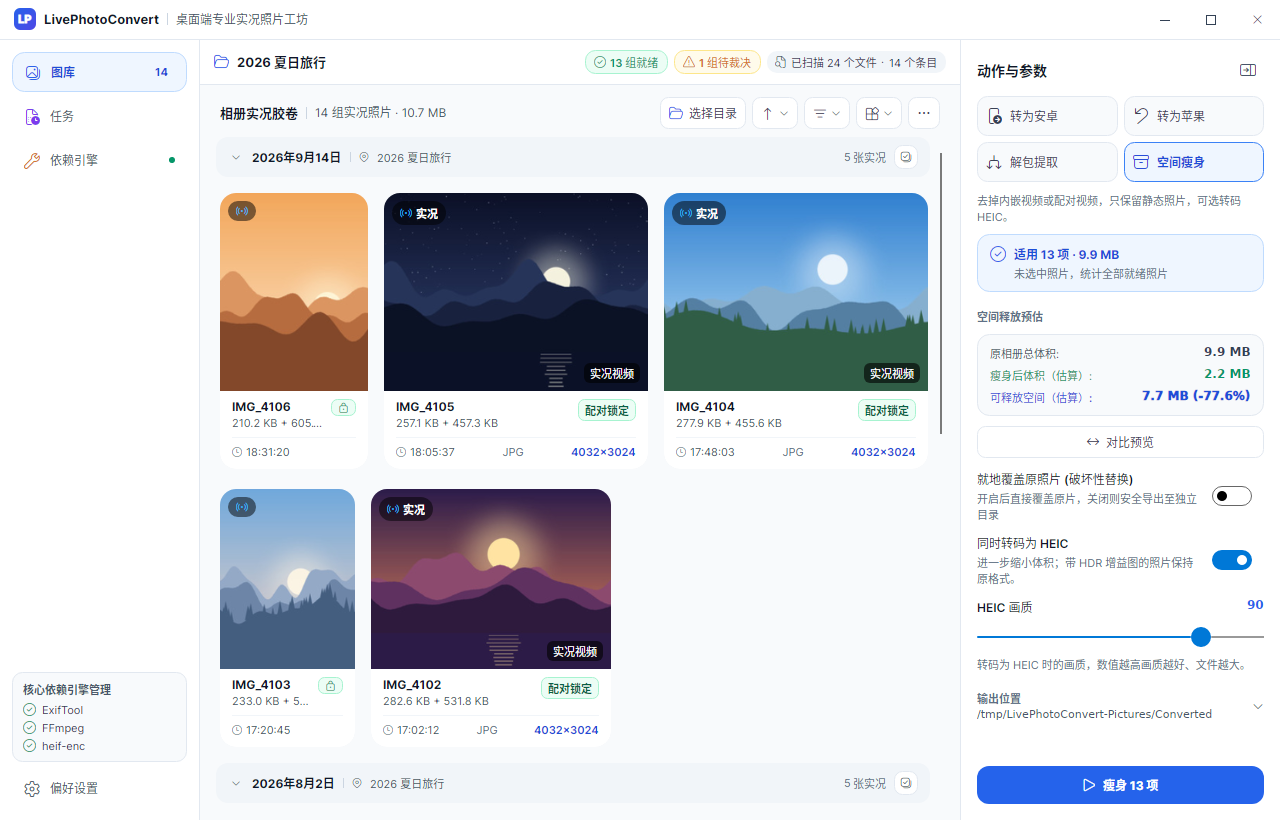
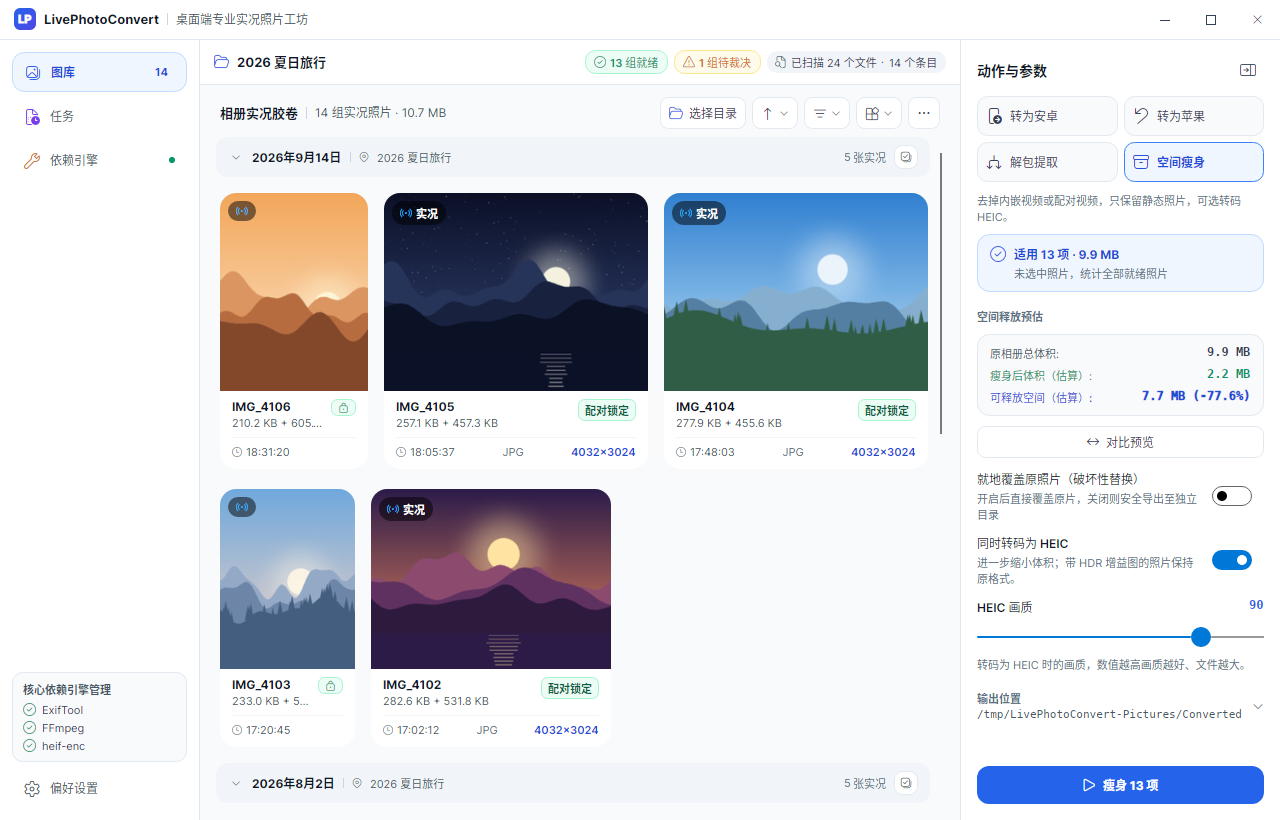
README 补充使用场景与按搜索习惯写的常见问题，更新截图并加入社交预览图
- 中英文 README 开头说明解决的问题：iPhone 实况照片到安卓不会动、安卓换 iPhone、提取视频、实况照片占空间
- 常见问题新增四条：实况转安卓动态照片、动态照片转 iPhone 实况、提取视频、节省空间
- 首屏截图的 alt 文字写明用途
- 按当前界面重新生成 README 截图（去掉已移除的「实况视频」角标）
- 新增 docs/social-preview.png（1280×640），供仓库设置中的 Social preview 使用

diff --git a/docs/README.en.md b/docs/README.en.md
@@ -22,8 +22,17 @@
 </p>
 
 <p align="center">
-  <img src="screenshots/library-light-en.png" alt="Library workbench" width="880" />
+  <img src="screenshots/library-light-en.png" alt="LivePhotoConvert library: browse and convert iPhone Live Photos and Android motion photos" width="880" />
 </p>
+
+LivePhotoConvert is a Windows desktop app for the "moving photos" on your phone: Apple Live Photos and Android Motion Photos.
+
+- **iPhone Live Photos don't move on Android**: merge each Live Photo (`.HEIC` / `.JPG` + `.MOV`) into a single-file motion photo (`MVIMG_*.jpg`) that plays on long-press in Google Photos and Xiaomi / HyperOS Gallery. iPhone HDR photos can stay HDR as Ultra HDR.
+- **Switching from Android to iPhone**: turn Google, Xiaomi, Samsung and other Android motion photos back into `.HEIC` + `.MOV` Live Photo pairs that Photos on iPhone and Mac recognizes as Live Photos.
+- **Just want the video**: extract the embedded `.mp4` from a motion photo, byte-for-byte and lossless.
+- **Live Photos take too much space**: drop the video and keep only the photo, optionally as HEIC. Compare the quality and see the estimated savings before you start.
+
+Whole albums are processed in batches, outputs are verified before they are written, and your originals are kept by default.
 
 ## Contents
 
@@ -190,6 +199,30 @@ On macOS keyboards the Command key acts as Ctrl.
 | Android / iOS | Not supported: conversions depend on launching command-line tools such as ExifTool and FFmpeg as local processes |
 
 ## FAQ
+
+<details>
+<summary><b>How do I convert iPhone Live Photos into motion photos that play on Android?</b></summary>
+
+Export the unmodified originals from your iPhone (each Live Photo is a photo plus a `.MOV` with the same name), open the folder in the library, choose "To Android" and start. Each result is a single `MVIMG_*.jpg`; copy it to the phone over USB, the local network or an original-quality cloud upload, then long-press it in Google Photos or Xiaomi / HyperOS Gallery. See [Getting started](#getting-started).
+</details>
+
+<details>
+<summary><b>How do I turn Android motion photos into iPhone Live Photos?</b></summary>
+
+Open the folder and choose "To Apple". Each motion photo becomes a `.HEIC` and a `.MOV` with the same name and the same pairing identifier; import both files together into Photos on iPhone or Mac and they show up as a Live Photo. Google, Xiaomi and Samsung motion photos and HEIC files with an embedded video are all recognized.
+</details>
+
+<details>
+<summary><b>How do I extract the video from a motion photo?</b></summary>
+
+Choose "Extract". Each motion photo yields its cover image and a standalone `.mp4`, cut byte-for-byte without re-encoding. The video of an Apple Live Photo is already a separate `.MOV` file.
+</details>
+
+<details>
+<summary><b>Live Photos and motion photos take too much space</b></summary>
+
+Choose "Slim down" to remove the embedded or paired video and keep only the photo, optionally re-encoded as HEIC (quality 90 by default). Before you start, "Compare preview" shows the resulting quality and the album-wide estimate shows how much space you will save. Results are exported to a new folder by default, or you can replace the originals in place.
+</details>
 
 <details>
 <summary><b>Engine downloads fail</b></summary>

diff --git a/README.md b/README.md
@@ -22,8 +22,17 @@
 </p>
 
 <p align="center">
-  <img src="docs/screenshots/library-light-zh.png" alt="图库工作台" width="880" />
+  <img src="docs/screenshots/library-light-zh.png" alt="LivePhotoConvert 图库：浏览并转换 iPhone 实况照片与安卓动态照片" width="880" />
 </p>
+
+LivePhotoConvert 是一个 Windows 桌面工具，专门处理手机里「会动的照片」——苹果的实况照片（Live Photo）和安卓的动态照片（Motion Photo）：
+
+- **iPhone 实况照片发到安卓手机不会动**：把实况照片（`.HEIC` / `.JPG` + `.MOV`）合成为单文件动态照片（`MVIMG_*.jpg`），在 Google 相册、小米 / 澎湃 OS 相册中长按即可播放；iPhone 的 HDR 照片可保留为 Ultra HDR。
+- **从安卓换到 iPhone，动态照片想继续当实况看**：把 Google、小米、三星等安卓动态照片还原为 `.HEIC` + `.MOV` 实况对，导入 iPhone / Mac「照片」后就是实况照片。
+- **只想要里面的视频**：从动态照片中按字节无损提取 `.mp4`。
+- **实况照片太占空间**：去掉实况视频只保留照片，可同时转为 HEIC；处理前可先对比画质、预估能省多少空间。
+
+整个相册批量处理，输出校验通过后才落盘，默认保留原片。
 
 ## 目录
 
@@ -190,6 +199,30 @@ macOS 键盘上的 Command 键按 Ctrl 处理。
 | Android / iOS | 不支持：转换依赖在本机启动 ExifTool、FFmpeg 等命令行工具进程 |
 
 ## 常见问题
+
+<details>
+<summary><b>iPhone 实况照片怎么转成安卓 / 小米手机能播放的动态照片？</b></summary>
+
+先从 iPhone 导出未修改的原片（每张实况是同名的照片与 `.MOV`），在图库中打开所在文件夹，选择「转为安卓」并开始。生成的 `MVIMG_*.jpg` 是单个文件，用数据线、局域网或网盘原图传到手机，在 Google 相册、小米 / 澎湃 OS 相册中长按播放。详见[快速上手](#快速上手)。
+</details>
+
+<details>
+<summary><b>安卓动态照片怎么变成 iPhone 的实况照片？</b></summary>
+
+打开动态照片所在文件夹，选择「转为苹果」。每张动态照片会生成同名的 `.HEIC` 与 `.MOV`，两端写入相同的配对标识；把两个文件一起导入 iPhone 或 Mac 的「照片」，即识别为实况照片。Google、小米、三星的动态照片和内嵌视频的 HEIC 都能识别。
+</details>
+
+<details>
+<summary><b>怎么从动态照片里提取视频？</b></summary>
+
+选择「解包提取」，每张动态照片输出封面图与独立的 `.mp4`，视频按字节切出，不重新编码、不损失画质。苹果实况照片的视频本来就是单独的 `.MOV` 文件，无需提取。
+</details>
+
+<details>
+<summary><b>实况照片、动态照片太占空间怎么办？</b></summary>
+
+选择「空间瘦身」：去掉内嵌或配对的视频，只保留照片，并可同时转码为 HEIC（默认质量 90）。开始前可以用「对比预览」查看处理后的画质，并看到整个相册预计能省下的空间；默认导出到新目录，也可以选择就地替换。
+</details>
 
 <details>
 <summary><b>依赖下载失败怎么办？</b></summary>
